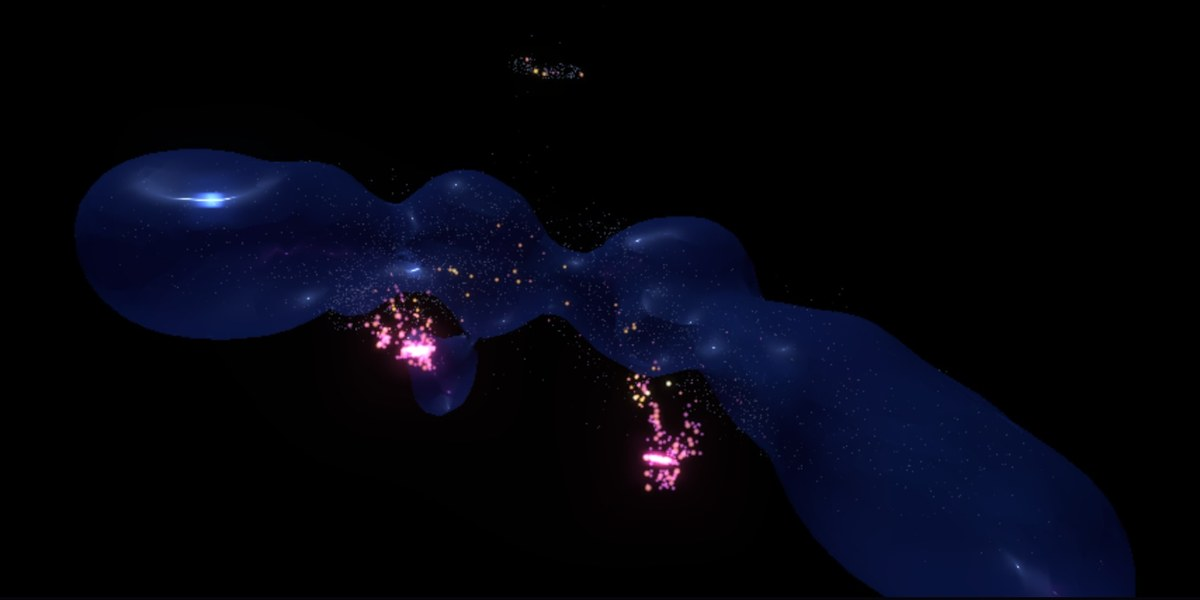
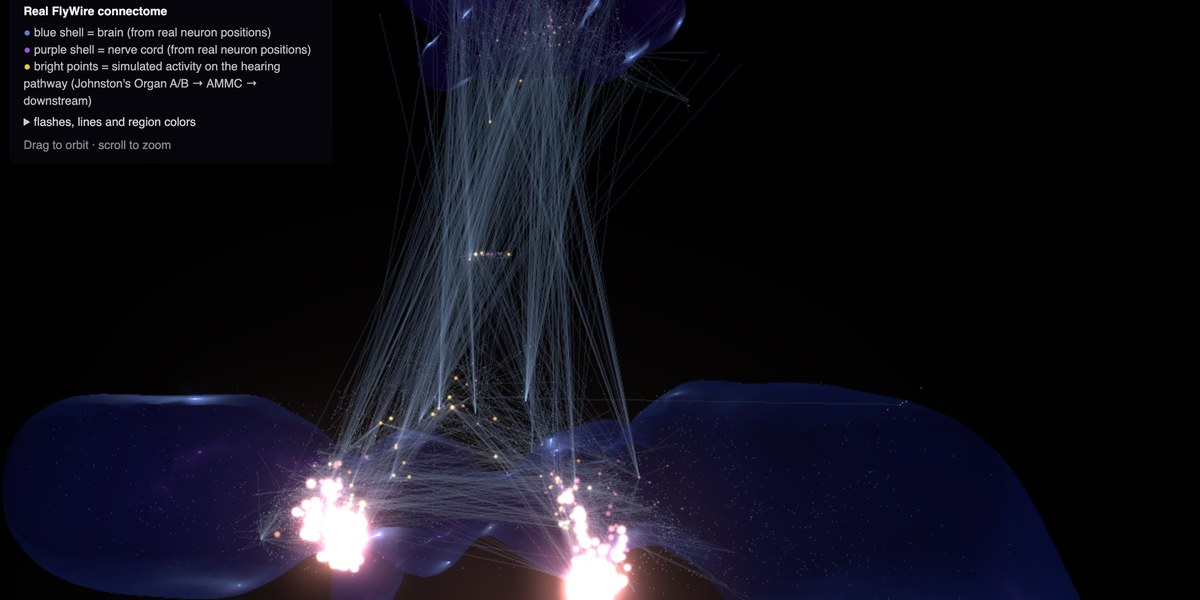
Document visual pass; recapture README stills and demo GIF

diff --git a/README.md b/README.md
@@ -39,7 +39,7 @@ The one part that is not science is the bridge from sound to synapse. No dataset
 </table>
 
 <p align="center">
-  <img src="screenshots/scene-demo.gif" width="90%" alt="Animated: the hearing pathway responding to the Chopin demo as the camera orbits">
+  <img src="screenshots/scene-demo.gif" width="90%" alt="Animated: ear clusters flashing with simulated spikes, real connections fanning out toward the nerve cord, as the camera orbits">
 </p>
 
 ## What's real vs. speculative
@@ -90,7 +90,7 @@ Requires your own FlyWire/CAVE account. See [codex.flywire.ai](https://codex.fly
 
 1. **`audio_features.py`** listens to the track: how loud, how fast, how sudden each moment is, its energy across 8 mel-spaced frequency bands (log-compressed, cochlear-style spacing, low to high) with per-band transient detection, its energy across 12 pitch classes (chroma), and the percussive/harmonic balance of each moment. Frames can be spaced at a fixed rate or (optionally) locked to the track's detected beat.
 2. **`simulate.py`** feeds that into the real wiring diagram. About 10,800 neurons pass the signal to each other, hop by hop, starting from the sound-sensitive Johnston's Organ neurons (subgroups A and B) and spreading outward. In practice most of the spiking stays in the ear neurons and their first relays; further out the model shows small sub-threshold voltage changes, and the [2026-10-05 notes](#2026-10-05-hearing-only-rebuild) below explain why. Seed neurons are split two independent ways -- by frequency band and by pitch class -- so different populations respond to different pitches and different notes. The module's own comments walk through the model in more depth for anyone curious.
-3. **`web_scene.py`** and **`brain_map_3d.py`** draw the result: each neuron placed at its real position in the brain, glowing brighter as it fires, in sync with the track. Brightness is normalized per neuron against its own range over the track (with a 2 mV minimum, so tiny wiggles stay dark), and every neuron on the pathway keeps a faint base tint so the real wiring stays visible even where nothing is firing.
+3. **`web_scene.py`** and **`brain_map_3d.py`** draw the result: each neuron placed at its real position in the brain, glowing brighter as it fires, in sync with the track. Brightness is normalized per neuron against its own range over the track (with a 2 mV minimum, so tiny wiggles stay dark), and every neuron on the pathway keeps a faint base color by its real BANC region (hearing centres, nerve cord, motor neurons and so on) so the wiring stays visible even where nothing is firing. Spikes show as flashes at each neuron's simulated firing rate, and real connections are drawn as faint lines: ear to first relay, the strongest next links, and the strongest real path from the ear to every leg and wing motor neuron. A pulse runs along a line when its source neuron spikes.
 4. **`brain_map.py`** is a simple flat backup drawing (not the real 3D positions), kept on hand in case the real scene ever isn't wanted or available. It isn't part of the running app.
 
 ## Build story
@@ -117,6 +117,7 @@ What changed:
 - **Connection threshold lowered from 12 to 8 synapses**, since the smaller seed set leaves room: 10,771 neurons and 30,380 connections (was 22,878 and 75,947). Fresh 3D positions were pulled from CAVE for every neuron.
 - **Spike counts checked, not just voltages.** On the Chopin demo at the old drive strength, ear neurons fired under 1 Hz on average and nothing downstream spiked at all. In the old smell-heavy network, the downstream activity came from many olfactory neurons converging on each relay. Drive strength was raised from 12 to 30 so the ear neurons fire at tens of Hz. Even so, spiking mostly stops after the first relay in this model.
 - **Display made honest about that.** Each neuron now needs at least 2 mV of depolarization to reach full brightness (before, a 0.01 mV wiggle could be stretched to full glow), and every pathway neuron keeps a faint base tint so the real route, including into the nerve cord, is visible as wiring rather than implied activity.
+- **Visual pass (same day).** The honest version looked flat, so four real-data visual layers were added: stronger bloom on activity only, wiring colored by BANC region, spike flashes at each neuron's simulated firing rate, and signal routes (real connections, with pulses when the source spikes). The routes reach every leg and wing motor neuron as structure; pulses mostly stay near the ears, because that's where the simulated spikes are.
 - **Citation fix.** The Shiu et al. 2024 model was built on FlyWire's brain-only map of a different fly, not on BANC. The docs previously said "this same connectome". The BANC paper itself (Bates et al. 2026, *Nature*) is now cited too.
 
 The unedited log lives in [`BUILD_LOG.md`](BUILD_LOG.md) if any of that is worth the full account.

diff --git a/BUILD_LOG.md b/BUILD_LOG.md
@@ -504,3 +504,20 @@ Takeaways: (a) the old network's downstream spiking came from many olfactory neu
 **Verified:** pipeline run on Chopin and pink noise (no NaN; ~550 neurons reach ≥2 mV at their 95th percentile, the rest show as wiring), then the live app via Playwright + CDP screenshot: two bright clusters at JO/AMMC on each side, faint wiring dots through the brain and nerve cord.
 
 **Still to do:** README screenshots/GIF predate this change and should be re-recorded. A more faithful simulation (finer dt, all inputs rather than only ≥8-synapse edges, possibly on shorter clips) is the open path to genuine propagation further out.
+
+---
+
+## 2026-10-05 (cont.): Visual pass on the honest build
+
+User feedback after the hearing-only rebuild: "the model is visually less impressive now." True: with ~500 hearing seeds instead of ~2,800 converging smell neurons, the real activity is two small clusters, and Chopin is quiet. Agreed rule for the fix: every new visual element must show something real, and the legend says what. User picked four of six proposed options (bloom, region colors, spike flashes, signal routes; skipped default-camera and demo-track changes).
+
+1. **Bloom tuned, not added.** `UnrealBloomPass` already existed (1.1 / 0.5 / 0.15). Now 1.5 strength, 0.6 radius, 0.2 threshold, so activity, flashes and pulses bloom while the dim wiring colors stay below threshold.
+2. **Wiring colored by real region.** `REGION_GROUPS` in `web_scene.py` maps BANC's `Top in/out region` (from `auditory_neurons.csv`) into 7 families: motor neurons (by `cell_class`, checked first), hearing centres (AMMC/SAD/WED/AVLP/PVLP/AMNP), GNG, optic lobes, nerve cord leg segments (T1/T2/T3/ABD neuromeres), other nerve cord (TCT tracts etc.), other central brain. Counts on the current graph: 465 / 2,829 / 726 / 841 / 3,172 / 1,234 / 1,504. Replaces the single `WIRING_TINT`.
+3. **Spike flashes.** `simulate.py` now returns `spike_frames`: per frame, the indices of neurons that spiked and their rate in Hz over that frame (sparse, so cheap). The scene draws flashes as Poisson events at that rate on each animation tick. Exact spike times aren't stored on purpose: audio drive is held constant within a frame, so sub-frame timing carries no musical information, and full spike trains would bloat the payload. Disclosed in the legend and About panel.
+4. **Signal routes.** `_route_edges` picks real graph edges: all 518 seed -> hop1, the 1,200 strongest hop1 -> hop2 by synapse count, and for every leg/wing motor neuron the strongest path back to the ear (at each step the predecessor one hop closer with the most synapses). 2,137 edges in all, drawn as additive `LineSegments` with a shader pulse that runs along an edge when its source flashes.
+
+**Tuning found from screenshots, not guessed.** First render was a white-out: ~2,000 additive lines bundle through the neck, their faint base colors summed to white and bloom amplified it. Dropped the line base color to 7% and pulse brightness, then raised pulses again (wider, 1.6x, 0.7 s) after measuring orange-pixel counts across 110 captured frames showed pulses were nearly invisible. Honest outcome: pulses mostly appear on short ear -> first relay links near the clusters, with occasional longer ones, because that's how far the simulated spikes go. Did not add any pulses beyond real spikes.
+
+**Legend** made collapsible (`<details>`): shells and bright points always visible; flashes, lines and the region color key under "flashes, lines and region colors."
+
+**Verified** in the live local app via Playwright + CDP captures (scene colors only update while audio plays, so all captures were taken mid-playback at ~205 s, the loudest stretch of the Chopin demo). README stills and `scene-demo.gif` recaptured with the new look.
